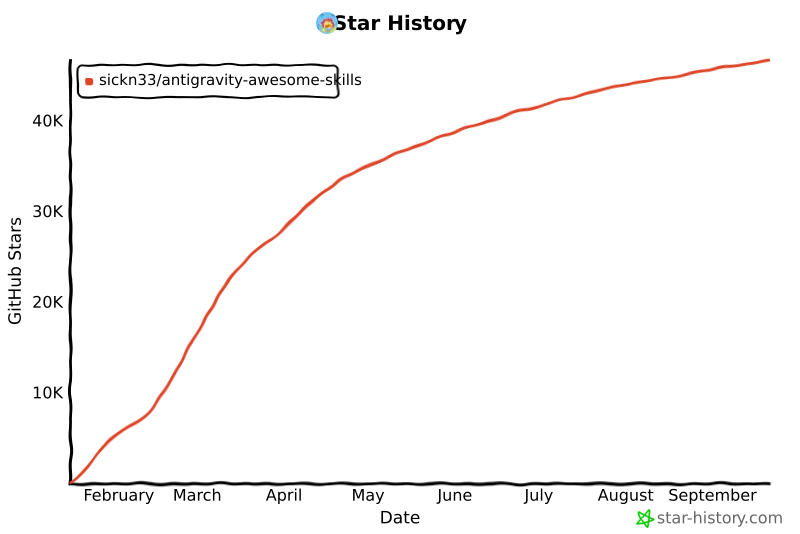
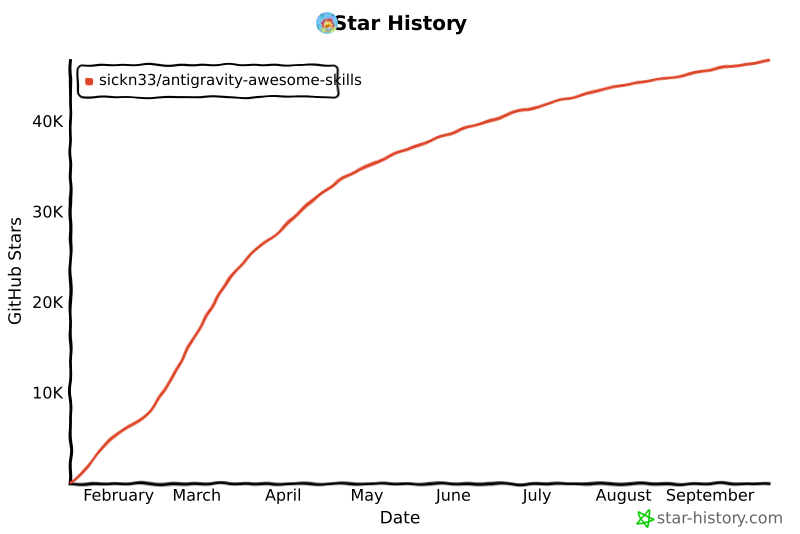
chore: update star history chart

diff --git a/README.md b/README.md
@@ -526,14 +526,14 @@ We officially thank the following contributors for their help in making this rep
 ## Star History
 
 <a href="https://www.star-history.com/#sickn33/antigravity-awesome-skills&type=date&legend=top-left">
- <img alt="Star History Chart" src="https://api.star-history.com/svg?repos=sickn33/antigravity-awesome-skills&type=date&legend=top-left&cache_bust=202609221041" />
+ <img alt="Star History Chart" src="https://api.star-history.com/svg?repos=sickn33/antigravity-awesome-skills&type=date&legend=top-left&cache_bust=202609231033" />
 </a>
 
 <a href="https://www.star-history.com/sickn33/antigravity-awesome-skills">
  <picture>
-   <source media="(prefers-color-scheme: dark)" srcset="https://api.star-history.com/chart?repos=sickn33/antigravity-awesome-skills&style=landscape1&theme=dark&cache_bust=202609221041" />
-   <source media="(prefers-color-scheme: light)" srcset="https://api.star-history.com/chart?repos=sickn33/antigravity-awesome-skills&style=landscape1&cache_bust=202609221041" />
-   <img alt="Star History Chart" src="https://api.star-history.com/chart?repos=sickn33/antigravity-awesome-skills&style=landscape1&cache_bust=202609221041" />
+   <source media="(prefers-color-scheme: dark)" srcset="https://api.star-history.com/chart?repos=sickn33/antigravity-awesome-skills&style=landscape1&theme=dark&cache_bust=202609231033" />
+   <source media="(prefers-color-scheme: light)" srcset="https://api.star-history.com/chart?repos=sickn33/antigravity-awesome-skills&style=landscape1&cache_bust=202609231033" />
+   <img alt="Star History Chart" src="https://api.star-history.com/chart?repos=sickn33/antigravity-awesome-skills&style=landscape1&cache_bust=202609231033" />
  </picture>
 </a>
 
